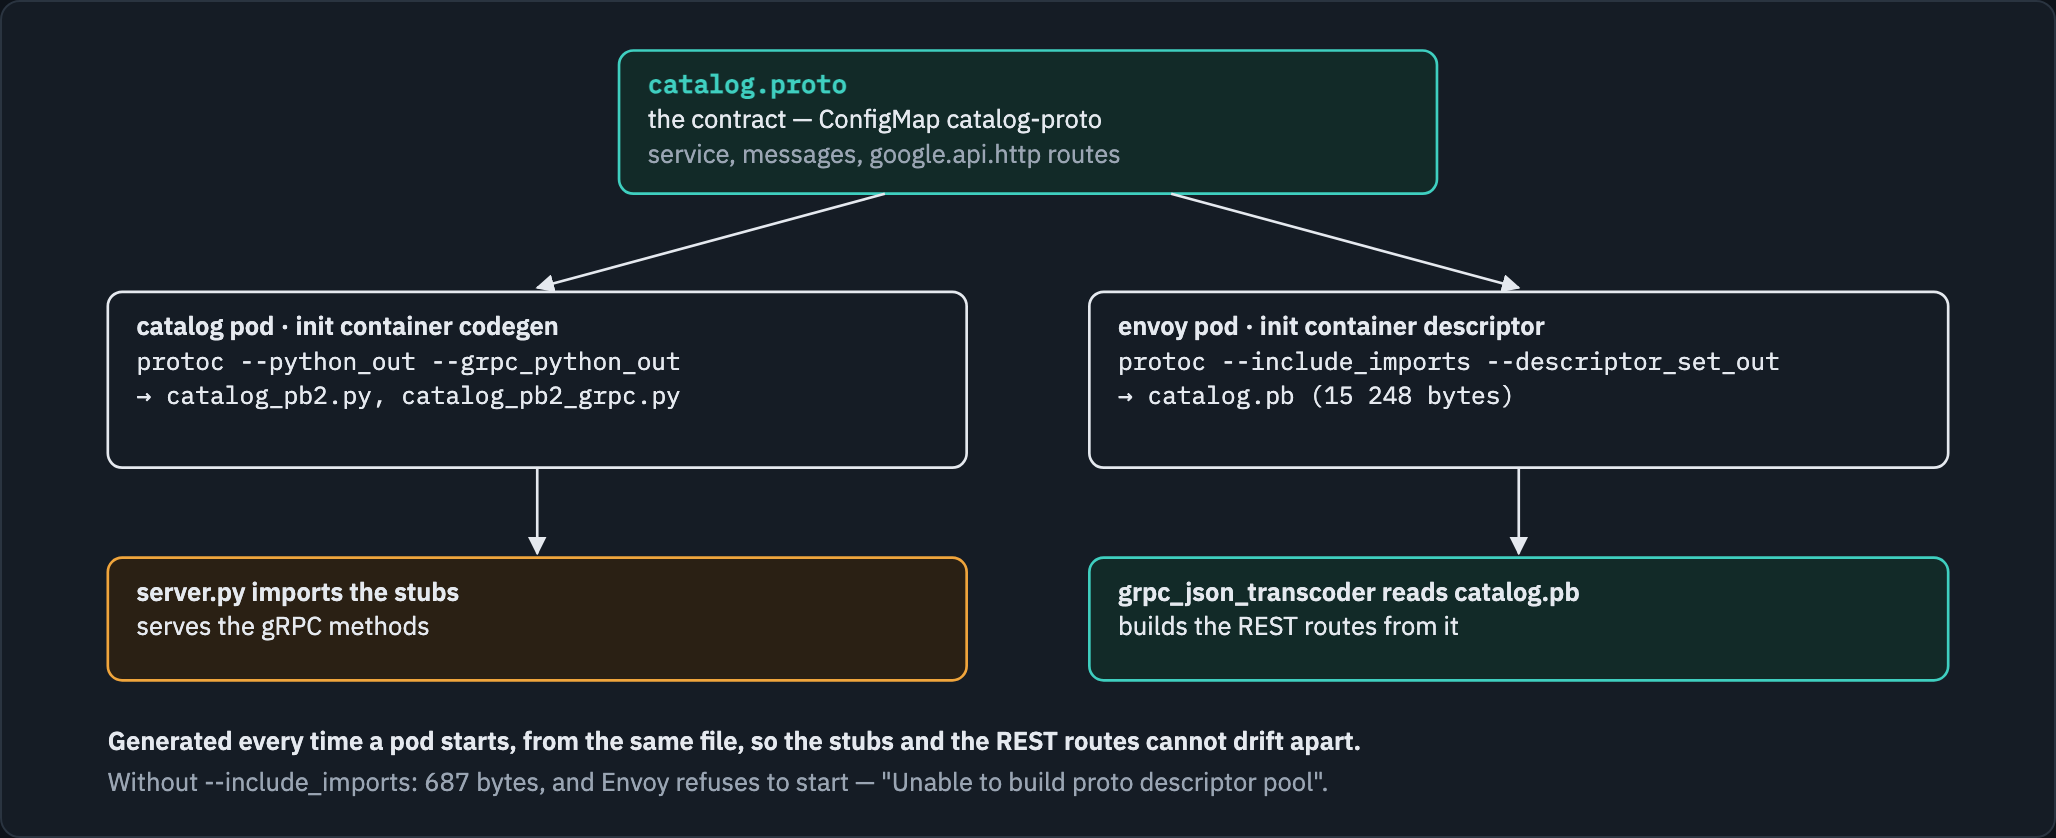
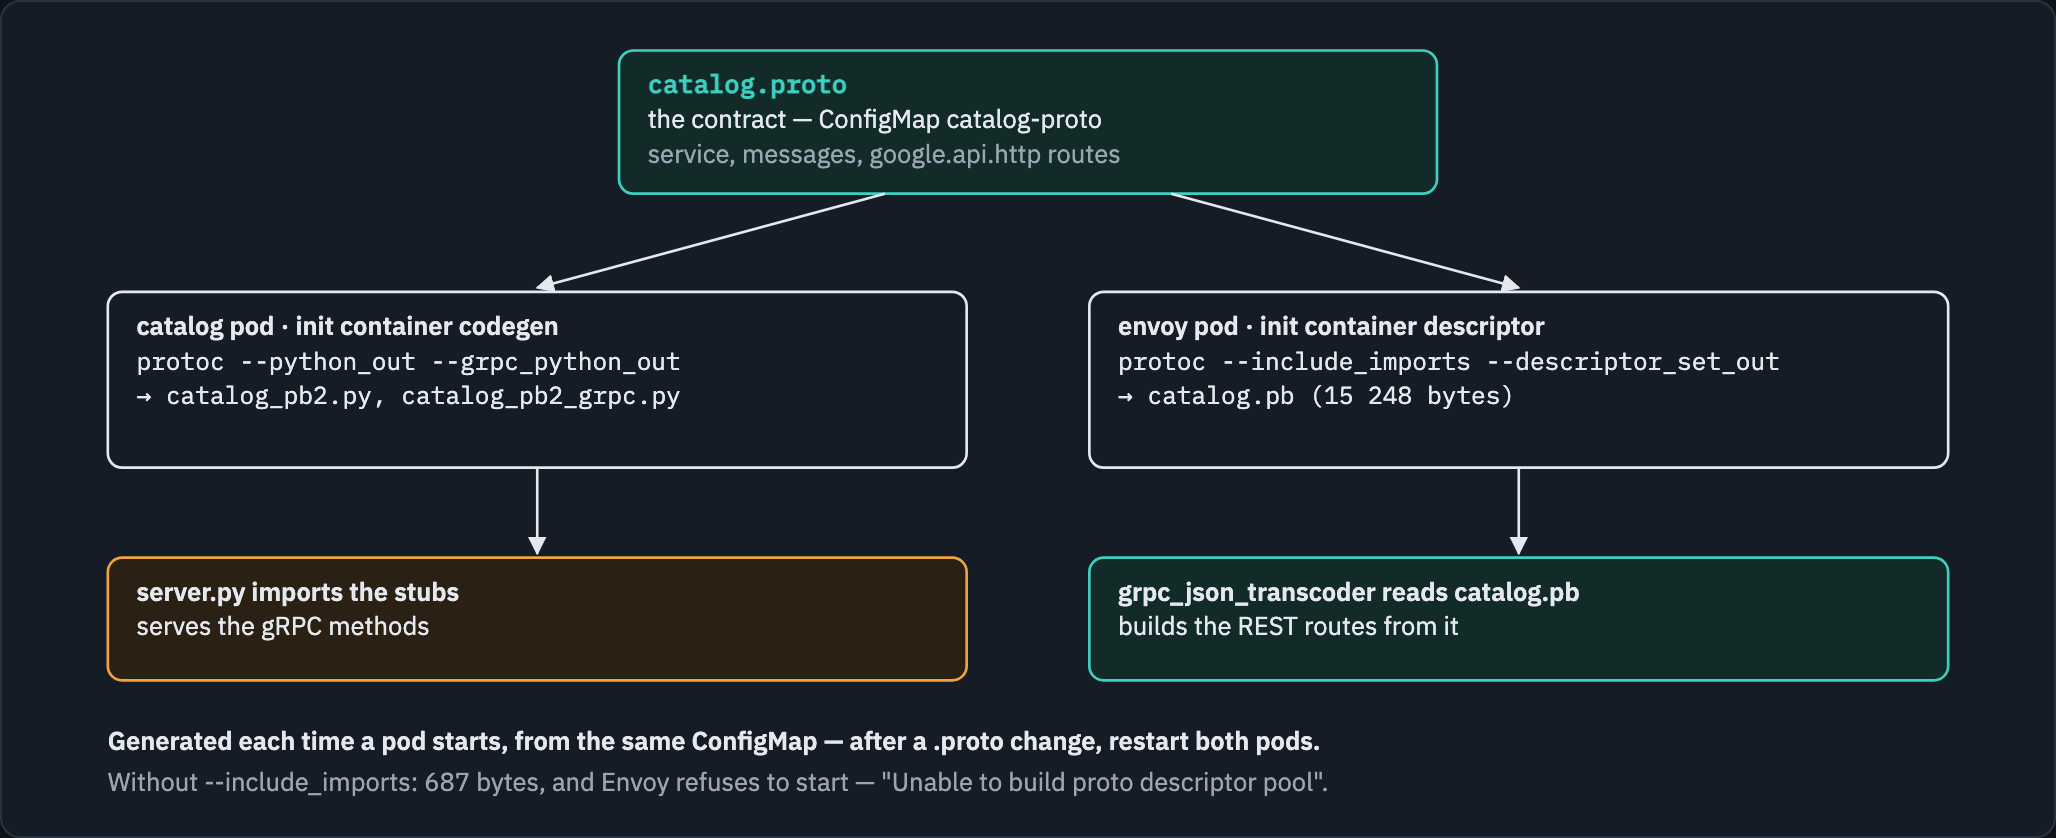
Fix module 07 after independent review
- An unmatched REST path is not a 404: the transcoder passes it on and
  the service resets it - 503 "remote reset" (DELETE: 200), measured on
  CRC. A 404 needs reject_unknown_method. Troubleshooting corrected.
- convert_grpc_status only writes the JSON body; the HTTP status is set
  either way.
- server.py replied with the stored Item, serialised after the lock was
  released, so a reply could show a later reservation. Replies are now
  copies; app/test_server.py covers it (fails 2 of 4 on the old server)
  and runs in the catalog pod with ./run.sh test.
- verify never checked the 400 in its labels and failed once the widget
  sold out; it now checks status and code, and handles sold out.
- pip pinned (grpcio 1.84.0, protobuf 7.36.2, googleapis-common-protos
  1.75.4): the 15 248-byte descriptor depends on those versions.
- "The stubs can never drift" was false for a running pod; say to
  restart both Deployments after a .proto change.

Changed region(s): [[0.1245, 0.8687, 0.6537, 0.8998]]

diff --git a/docs/diagrams/07-modernising-grpc/source.html b/docs/diagrams/07-modernising-grpc/source.html
@@ -139,7 +139,7 @@ a { color: var(--remote); }
 <rect x="520" y="260" width="420" height="60" rx="7" fill="var(--remote-wash)" stroke="var(--remote)" stroke-width="1.3"/>
 <text x="534" y="281" font-weight="600">grpc_json_transcoder reads catalog.pb</text>
 <text x="534" y="298">builds the REST routes from it</text>
-<text x="40" y="354" font-weight="600">Generated every time a pod starts, from the same file, so the stubs and the REST routes cannot drift apart.</text>
+<text x="40" y="354" font-weight="600">Generated each time a pod starts, from the same ConfigMap — after a .proto change, restart both pods.</text>
 <text x="40" y="374" fill="var(--muted)">Without --include_imports: 687 bytes, and Envoy refuses to start — &quot;Unable to build proto descriptor pool&quot;.</text>
   </g>
 </svg>

diff --git a/07-modernising-grpc/app/test_server.py b/07-modernising-grpc/app/test_server.py
@@ -1,0 +1,70 @@
+"""Tests for server.py's Catalog, called directly: no network, no gRPC server.
+
+They need the generated stubs, so they run inside the catalog pod, where its
+init container put them:
+
+    ./run.sh test
+"""
+import unittest
+
+import grpc
+
+import catalog_pb2
+from server import Catalog
+
+
+class Aborted(Exception):
+    """What grpc's ServicerContext.abort does: raise, so the method stops there."""
+
+
+class Context:
+    def abort(self, code, details):
+        raise Aborted(code, details)
+
+
+def reserve(catalog, sku, quantity):
+    return catalog.ReserveStock(
+        catalog_pb2.ReserveStockRequest(sku=sku, quantity=quantity), Context())
+
+
+class RepliesAreSnapshots(unittest.TestCase):
+    # gRPC serialises a reply after the method returns, outside the lock, so a
+    # reply that is the stored Item itself shows whatever a later call did to it.
+
+    def test_reserve_reply_keeps_its_own_result(self):
+        catalog = Catalog()
+        first = reserve(catalog, "widget", 1)
+        reserve(catalog, "widget", 1)
+        self.assertEqual(first.on_hand, 9)
+
+    def test_get_reply_is_not_changed_by_a_later_reserve(self):
+        catalog = Catalog()
+        got = catalog.GetItem(catalog_pb2.GetItemRequest(sku="widget"), Context())
+        reserve(catalog, "widget", 2)
+        self.assertEqual(got.on_hand, 10)
+
+    def test_list_reply_is_not_changed_by_a_later_reserve(self):
+        catalog = Catalog()
+        listed = catalog.ListItems(catalog_pb2.ListItemsRequest(), Context())
+        reserve(catalog, "widget", 2)
+        self.assertEqual([item.on_hand for item in listed.items], [10, 3])
+
+
+class RefusedReservations(unittest.TestCase):
+    def test_each_error_aborts_and_changes_nothing(self):
+        catalog = Catalog()
+        for sku, quantity, code in (("widget", 0, grpc.StatusCode.INVALID_ARGUMENT),
+                                    ("gadget", 4, grpc.StatusCode.FAILED_PRECONDITION),
+                                    ("nope", 1, grpc.StatusCode.NOT_FOUND)):
+            with self.assertRaises(Aborted) as raised:
+                reserve(catalog, sku, quantity)
+            self.assertEqual(raised.exception.args[0], code)
+            # an abort inside `with self._lock` must still release the lock
+            self.assertFalse(catalog._lock.locked())
+        self.assertEqual(reserve(catalog, "gadget", 3).on_hand, 0)
+        self.assertEqual(
+            catalog.GetItem(catalog_pb2.GetItemRequest(sku="widget"), Context()).on_hand, 10)
+
+
+if __name__ == "__main__":
+    unittest.main()

diff --git a/07-modernising-grpc/app/server.py b/07-modernising-grpc/app/server.py
@@ -3,9 +3,9 @@
 It knows nothing about HTTP routes or JSON. Everything REST about it is added by
 Envoy in front - which is the point of the module.
 
-catalog_pb2 / catalog_pb2_grpc are generated from proto/catalog.proto when the
-pod starts (see manifests/20-catalog.yaml), so the stubs can never drift from
-the .proto they came from.
+catalog_pb2 / catalog_pb2_grpc are generated from proto/catalog.proto (the
+catalog-proto ConfigMap) when the pod starts - see manifests/20-catalog.yaml. A
+running pod keeps the contract it started with until it is restarted.
 """
 import os
 import threading
@@ -21,6 +21,20 @@ POD = os.environ.get("POD_NAME", "catalog")
 PORT = int(os.environ.get("PORT", "50051"))
 
 
+def _snapshot(item):
+    """A copy of a stored Item to reply with, or None.
+
+    gRPC serialises a reply after the method has returned - after the lock is
+    released - so replying with the stored Item itself would let a concurrent
+    ReserveStock change what this caller is told.
+    """
+    if item is None:
+        return None
+    reply = catalog_pb2.Item()
+    reply.CopyFrom(item)
+    return reply
+
+
 class Catalog(catalog_pb2_grpc.CatalogServicer):
     def __init__(self):
         self._lock = threading.Lock()
@@ -32,12 +46,13 @@ class Catalog(catalog_pb2_grpc.CatalogServicer):
     def ListItems(self, request, context):
         print("%s ListItems" % POD, flush=True)
         with self._lock:
+            # The constructor copies every Item, so this reply is a snapshot too.
             return catalog_pb2.ListItemsResponse(items=list(self._items.values()))
 
     def GetItem(self, request, context):
         print("%s GetItem sku=%s" % (POD, request.sku), flush=True)
         with self._lock:
-            item = self._items.get(request.sku)
+            item = _snapshot(self._items.get(request.sku))
         if item is None:
             context.abort(grpc.StatusCode.NOT_FOUND, "no item with sku %r" % request.sku)
         return item
@@ -54,7 +69,7 @@ class Catalog(catalog_pb2_grpc.CatalogServicer):
                 context.abort(grpc.StatusCode.FAILED_PRECONDITION,
                               "only %d %s left" % (item.on_hand, request.sku))
             item.on_hand -= request.quantity
-            return item
+            return _snapshot(item)
 
 
 def main():

diff --git a/07-modernising-grpc/README.md b/07-modernising-grpc/README.md
@@ -108,14 +108,16 @@ $ oc logs -n envoy-07 deploy/catalog -c codegen | tail -2
 catalog_pb2.py
 catalog_pb2_grpc.py
 $ oc logs -n envoy-07 deploy/catalog -c catalog
-catalog (gRPC only) listening on :50051 as catalog-7bc84497-lgdwq
+catalog (gRPC only) listening on :50051 as catalog-7b6b89445f-fl8wm
 ```
 
 **What just happened:** before the service started, an init container called
 `codegen` installed the gRPC tools and ran `protoc` on `catalog.proto`, producing
 `catalog_pb2.py` (the messages) and `catalog_pb2_grpc.py` (the service stubs)
-that `server.py` imports. Generated at every start, from the same file, they can
-never drift from the contract.
+that `server.py` imports. They are generated from the ConfigMap each time the
+pod starts, and a running pod keeps the contract it started with: after changing
+the `.proto`, update the ConfigMap (`./run.sh deploy` does) and restart **both**
+Deployments — Envoy compiles the same file in step 5.
 
 ### Step 4 — it really does speak only gRPC
 
@@ -167,7 +169,7 @@ Waiting for deployment "envoy" rollout to finish: 0 of 1 updated replicas are av
 deployment "envoy" successfully rolled out
 $ oc logs -n envoy-07 deploy/envoy -c descriptor | tail -2
 total 16
--rw-r--r--. 1 1001530000 1001530000 15248 Sep 26 04:17 catalog.pb
+-rw-r--r--. 1 1001440000 1001440000 15248 Sep 26 05:16 catalog.pb
 ```
 
 <!-- markdownlint-disable MD033 -->
@@ -181,7 +183,8 @@ total 16
 **What just happened:** the Envoy pod ran `protoc` on the **same** `catalog.proto`
 — this time to produce `catalog.pb`, a **descriptor set**: the compiled contract,
 which `grpc_json_transcoder` reads to learn the methods, messages and REST routes.
-`--include_imports` puts the imported `google/api/annotations.proto` in too.
+`--include_imports` puts the files it imports in too: `google/api/annotations.proto`
+and, through it, `google/api/http.proto` and `google/protobuf/descriptor.proto`.
 Measured without it: a 687-byte file, and Envoy refused to start —
 *"transcoding_filter: Unable to build proto descriptor pool"*.
 
@@ -211,7 +214,7 @@ x-envoy-upstream-service-time: 0
 grpc-status: 0
 grpc-message: 
 content-length: 55
-date: Sat, 26 Sep 2026 04:17:17 GMT
+date: Sat, 26 Sep 2026 05:16:31 GMT
 server: envoy
 
 {
@@ -226,8 +229,9 @@ never heard of either. Two details:
 
 - the field is **`onHand`**, not `on_hand`. Protobuf's JSON mapping writes field
   names in lowerCamelCase.
-- the response still carries gRPC's own headers — `grpc-status: 0` means the
-  call succeeded — because the transcoder passes them through.
+- the response still carries gRPC's status — `grpc-status: 0` means the call
+  succeeded. gRPC sends it as a trailer, after the body; the transcoder copies it
+  into the HTTP/1.1 headers.
 
 Change something — reserve two widgets:
 
@@ -320,14 +324,14 @@ count is two lower — the `:reserve` in step 6 changed the same service.
 
 ```console
 $ oc logs -n envoy-07 deploy/catalog -c catalog --tail=8
-catalog-7bc84497-lgdwq ListItems
-catalog-7bc84497-lgdwq GetItem sku=widget
-catalog-7bc84497-lgdwq ReserveStock sku=widget quantity=2
-catalog-7bc84497-lgdwq GetItem sku=nope
-catalog-7bc84497-lgdwq ReserveStock sku=gadget quantity=100
-catalog-7bc84497-lgdwq ReserveStock sku=gadget quantity=0
-catalog-7bc84497-lgdwq GetItem sku=widget
-catalog-7bc84497-lgdwq GetItem sku=nope
+catalog-7b6b89445f-fl8wm ListItems
+catalog-7b6b89445f-fl8wm GetItem sku=widget
+catalog-7b6b89445f-fl8wm ReserveStock sku=widget quantity=2
+catalog-7b6b89445f-fl8wm GetItem sku=nope
+catalog-7b6b89445f-fl8wm ReserveStock sku=gadget quantity=100
+catalog-7b6b89445f-fl8wm ReserveStock sku=gadget quantity=0
+catalog-7b6b89445f-fl8wm GetItem sku=widget
+catalog-7b6b89445f-fl8wm GetItem sku=nope
 ```
 
 **What just happened:** every call — whether it arrived as REST or as gRPC — shows
@@ -339,12 +343,13 @@ Envoy's counters for the `catalog` cluster say the same, from the other side:
 ```console
 $ oc exec -n envoy-07 client -- curl -s 'http://envoy:9901/stats?filter=^cluster\.catalog\.upstream_cx_http(1|2)_total$'
 cluster.catalog.upstream_cx_http1_total: 0
-cluster.catalog.upstream_cx_http2_total: 7
+cluster.catalog.upstream_cx_http2_total: 6
 ```
 
 No HTTP/1.1 connection to the service at all. The cluster's
 `http2_protocol_options` is what makes Envoy speak HTTP/2 upstream; without it,
-Envoy would send HTTP/1.1 and the service would refuse every call.
+Envoy sends HTTP/1.1, cannot read the service's HTTP/2 answer, and fails every
+call — measured: `502`, *"reset reason: protocol error"*.
 
 ### Step 10 — check yourself
 
@@ -383,7 +388,7 @@ all checks passed
 |---|---|---|
 | `proto_descriptor` | `/etc/envoy/proto/catalog.pb` | the compiled contract — generated with `--include_imports` |
 | `services` | `tutorial.catalog.v1.Catalog` | which services to expose as REST |
-| `convert_grpc_status` | `true` | turn a gRPC error into the matching HTTP status and a JSON body |
+| `convert_grpc_status` | `true` | put a gRPC error's code and message in a JSON body. The HTTP status (`404`, `400`) is set with it off too — step 7 |
 | `print_options.add_whitespace` | `true` | indented JSON |
 | `print_options.always_print_primitive_fields` | `true` | keep fields at their zero value — measured: switched off, a sold-out item's `"onHand": 0` disappears from the JSON |
 
@@ -395,7 +400,7 @@ all checks passed
 | the `.proto` | `body: "*"` | the JSON body fills the remaining request fields |
 | the listener | `codec_type: AUTO` (the default) | one port for HTTP/1.1 (curl) and HTTP/2 (grpcurl) |
 | the cluster | `http2_protocol_options` | gRPC is HTTP/2 — talk HTTP/2 to the service |
-| the Service | `clusterIP: None` | Envoy holds every pod (module 05); for gRPC it matters more, since one HTTP/2 connection carries every call |
+| the Service | `clusterIP: None` | Envoy holds every pod (module 05); for gRPC it matters more: each HTTP/2 connection carries many calls, so a virtual IP would balance connections, not calls |
 
 ## Troubleshooting
 
@@ -403,7 +408,8 @@ all checks passed
 |---|---|---|
 | a pod stuck in `Init` | the init container could not reach PyPI | `oc logs -n envoy-07 <pod> -c codegen` (or `-c descriptor`); the cluster needs egress to pypi.org |
 | Envoy crash-loops: `Unable to build proto descriptor pool` | the descriptor was built without `--include_imports` | keep the flag in `40-envoy.yaml` |
-| every REST call gets `404` with no JSON | the path matches no `google.api.http` route, and there is no other route | check the method, path and `:verb` against the `.proto` |
+| a REST call gets `503`: `upstream connect error or disconnect/reset before headers. reset reason: remote reset` | its method and path match no `google.api.http` route, so the transcoder passes it on untranslated, and the `/` route sends it to the service as a plain HTTP/2 request, which the service resets | check the method, path and `:verb` against the `.proto`. With `request_validation_options: { reject_unknown_method: true }` the transcoder answers `404` itself |
+| every call gets `502`: `reset reason: protocol error` | the cluster has no `http2_protocol_options`, so Envoy talks HTTP/1.1 to a gRPC service | keep `explicit_http_config: { http2_protocol_options: {} }` on the cluster |
 | an error status with an empty body and `content-type: application/grpc` | `convert_grpc_status` is off | set it to `true` |
 | `Received HTTP/0.9 when not allowed` | you called the gRPC service directly with HTTP/1.1 | go through Envoy on port 8080 |
 
@@ -417,6 +423,8 @@ namespace "envoy-07" deleted
 ## The shortcut
 
 `./run.sh deploy` does steps 2, 3 and 5; `./run.sh verify` is step 10;
+`./run.sh test` runs the service's unit tests
+([`app/test_server.py`](app/test_server.py)) inside the catalog pod;
 `./run.sh clean` removes the namespace.
 
 ## What this module skipped
@@ -425,7 +433,7 @@ namespace "envoy-07" deleted
 and a larger service with a database behind it. Both are assembled in
 [`envoy-grpc-modernization`](https://github.com/ephico2real2/envoy-grpc-modernization),
 which puts this pattern in front of a MongoDB-backed inventory service with a
-browser kiosk. TLS for gRPC is module 09, still to come.
+browser kiosk. TLS for gRPC is [module 09](../09-grpc-end-to-end/README.md).
 
 ## References
 
